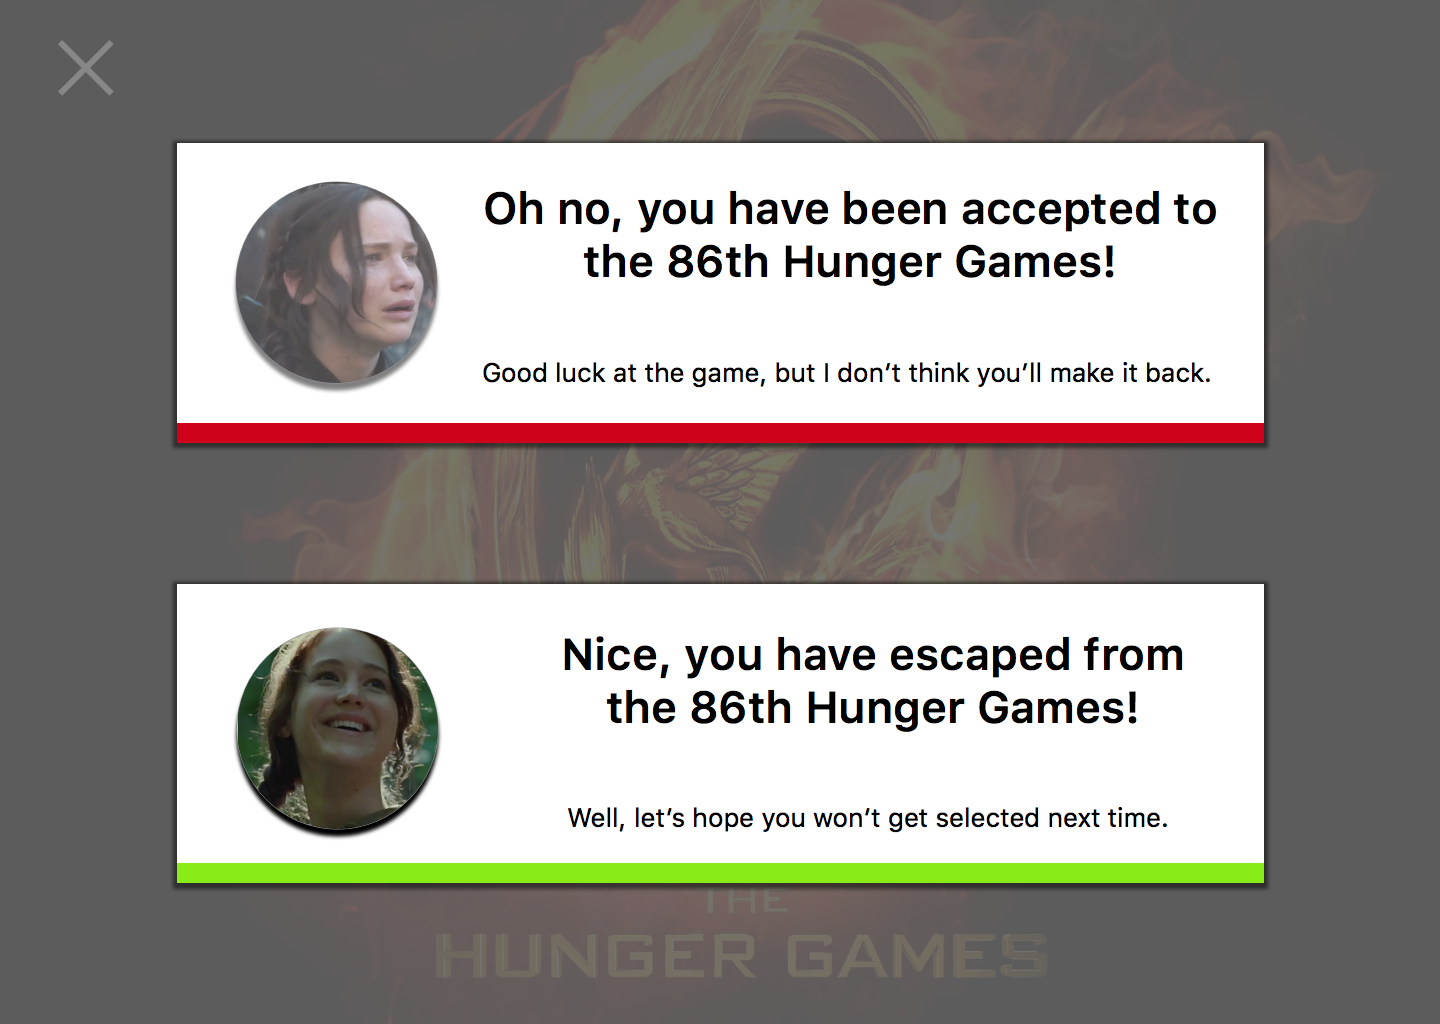
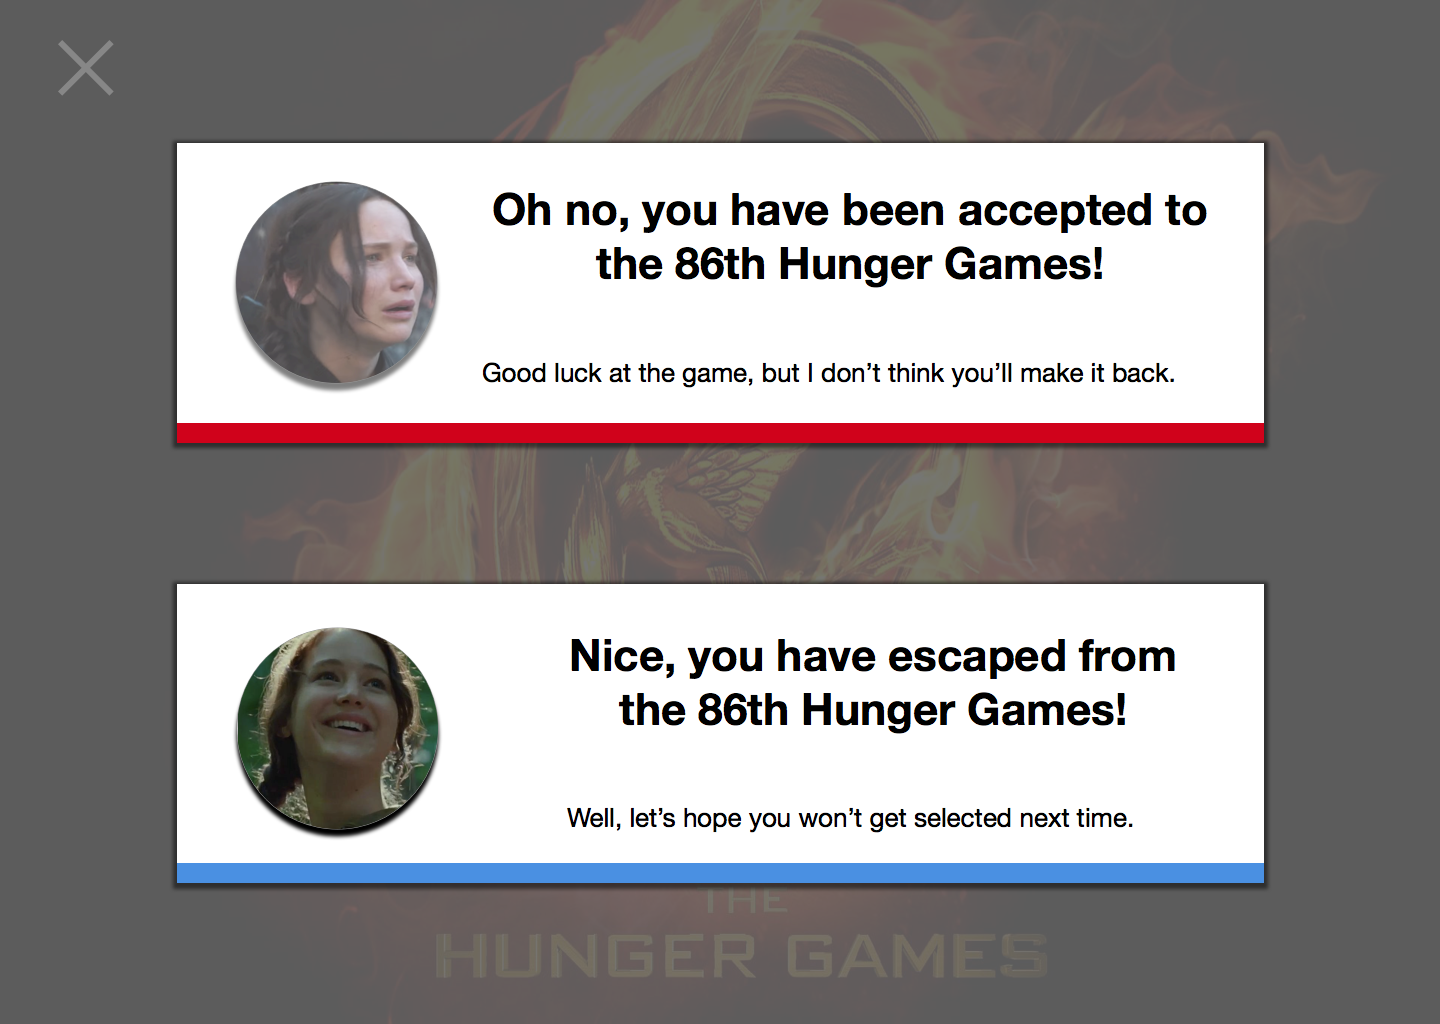
udpate day11

diff --git a/day11_FlashMessage/FlashMessage.html b/day11_FlashMessage/FlashMessage.html
@@ -5,5 +5,5 @@ I use the Hunger Games as the context. If the candidate is accepted to the hunge
 Katniss' sad face, because the person has to participate in the game and might not make it back. Vice versa,
 if the candidate doesn't get selected, s/he will see a message with Katniss' smily face. 
 
-On top of adding the emotions that can help users identify the type of message, I also use color (red vs green) in the 
+On top of adding the emotions that can help users identify the type of message, I also use color (red vs blue) in the 
 messages to make the tone stronger. 
